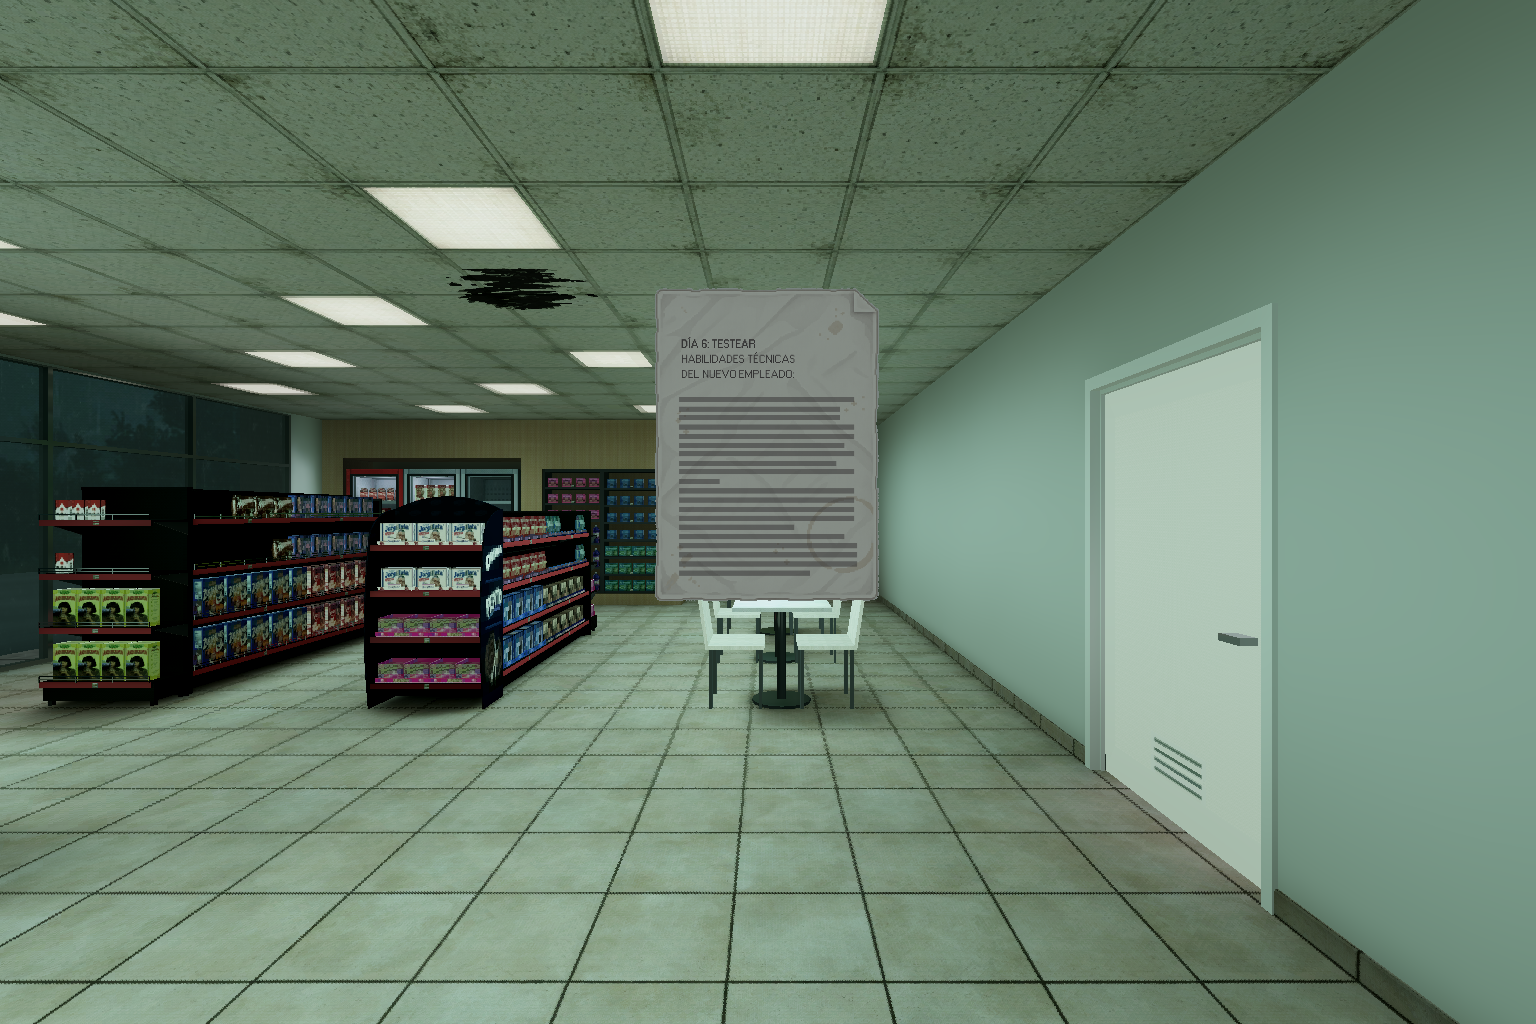
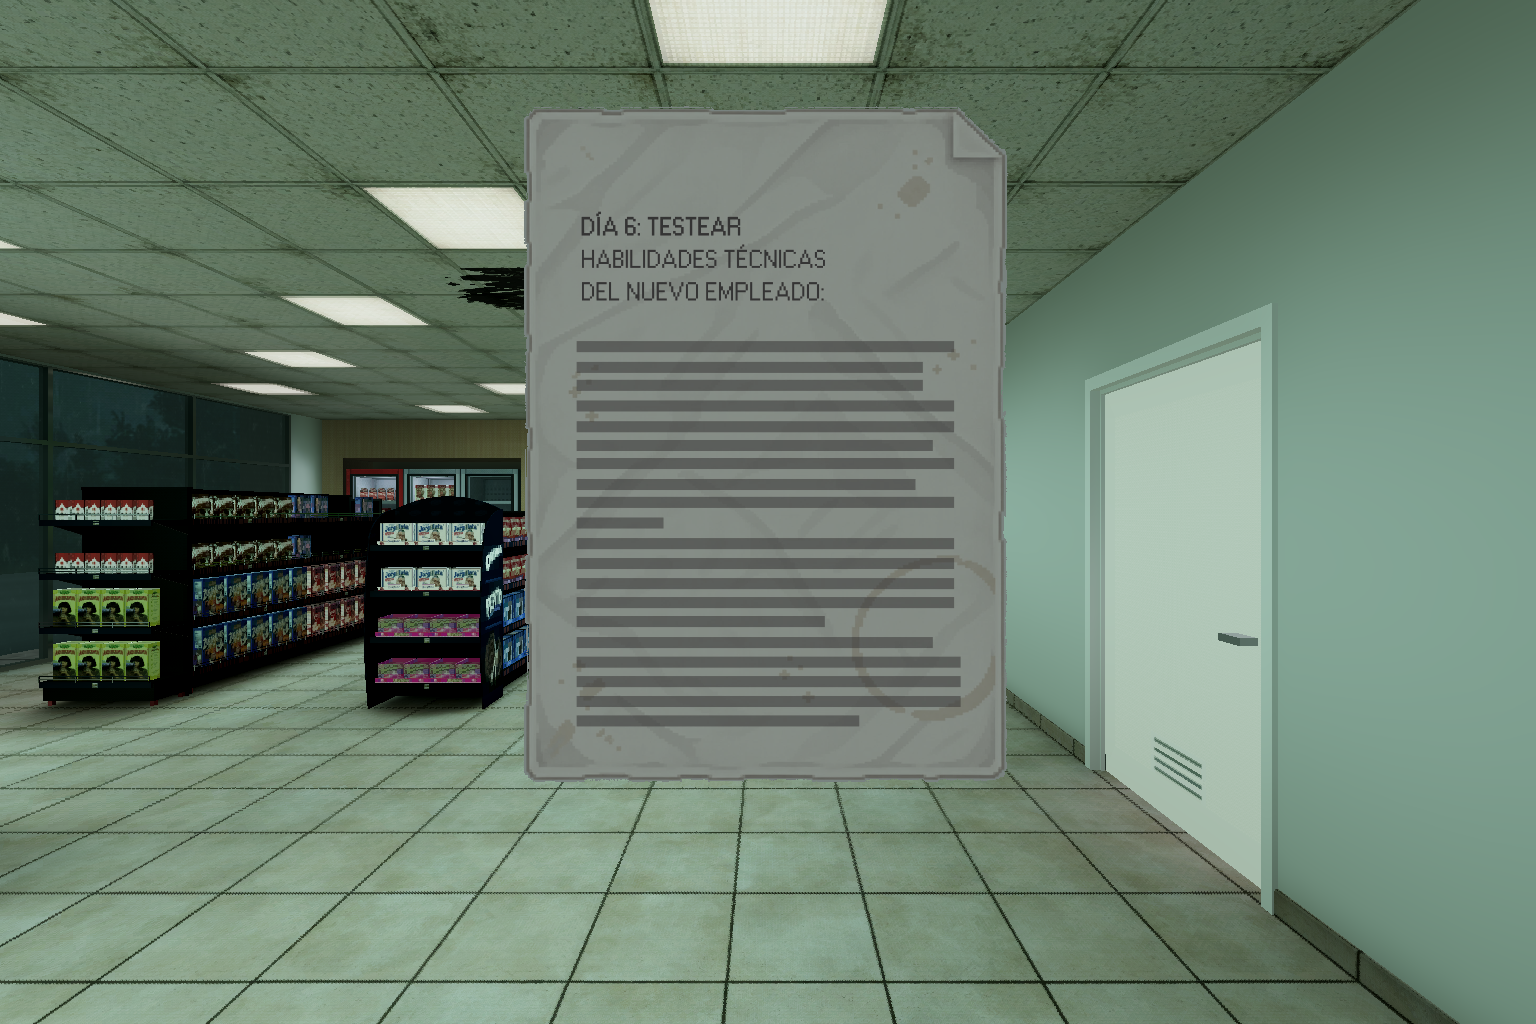
Los papeles de pista se examinan más grandes y la nota usa la textura de Figma (#885)
El objeto declara `escala_de_examen` y `Examen` lo agranda al examinarlo y lo devuelve
a su tamaño al terminar. La nota 6C pasa a la textura frontal de Figma (nodo 1865:867),
con su dorso en blanco, y su malla toma la proporción de esa textura. Las fotos de las
pistas 6B y 6C se vuelven a capturar.

diff --git a/assets/props/nota/generar_nota.py b/assets/props/nota/generar_nota.py
@@ -1,73 +1,36 @@
-"""Regenera la textura de la nota de Yasmín: su texto, a mano, sobre el papel sin texto.
+"""Regenera las texturas de la nota de la pista 6C desde la exportación de Figma.
 
-Uso: python generar_nota.py [--fuente RUTA]. El resultado es determinista para una misma fuente.
+Uso: python generar_nota.py --entrada RUTA_DE_LA_EXPORTACION. La exportación es el nodo
+1865:867 de «Manada - UI», tal como la entrega Figma. Su fondo es un color liso que no es parte
+del papel: los píxeles de ese color unidos al borde pasan a transparentes, y el papel no cambia.
+El dorso es el mismo contorno en blanco. El resultado es determinista.
 """
 import argparse
-import random
 from pathlib import Path
 
-from PIL import Image, ImageDraw, ImageFont
+from PIL import Image, ImageDraw
 
-AQUI = Path(__file__).resolve().parent
-BASE = AQUI.parent.parent / "models" / "SEPT_JUEGOS_PROTOTIPO_nota sin texto.png"
-SALIDA = AQUI.parent.parent / "ui" / "manada" / "pistas" / "nota-bajo-la-puerta.png"
-FUENTE = Path("C:/Windows/Fonts/Inkfree.ttf")
-SEMILLA = 741
-TINTA = (28, 36, 92)
-MARGEN = 64
-TAMANO = 56
-INTERLINEADO = 70
-
-PARRAFOS = [
-    "Hola, Enrique.",
-    "",
-    "Te dejo esto por escrito porque no me estás contestando los mensajes. "
-    "En serio, hace falta revisar si hay un cable pelado en el local o algo, "
-    "porque se sigue cortando la luz. Por favor, respondé.",
-    "",
-    "Saludos,",
-    "Yasmín.",
-]
+SALIDA = Path(__file__).resolve().parent.parent.parent / "ui" / "manada" / "pistas"
+FONDO = (199, 210, 217, 255)
+PAPEL_DEL_DORSO = (234, 229, 221, 255)
 
 
-def renglones(fuente: ImageFont.FreeTypeFont, ancho: int) -> list[str]:
-    salida: list[str] = []
-    for parrafo in PARRAFOS:
-        actual = ""
-        for palabra in parrafo.split():
-            prueba = f"{actual} {palabra}".strip()
-            if fuente.getlength(prueba) <= ancho:
-                actual = prueba
-            else:
-                salida.append(actual)
-                actual = palabra
-        salida.append(actual)
+def recortar(origen: Image.Image) -> Image.Image:
+    papel = origen.convert("RGBA")
+    assert papel.getpixel((0, 0)) == FONDO, "la exportación no trae el fondo esperado"
+    ImageDraw.floodfill(papel, (0, 0), (0, 0, 0, 0), thresh=0)
+    return papel
+
+
+def dorso(papel: Image.Image) -> Image.Image:
+    salida = Image.new("RGBA", papel.size, (0, 0, 0, 0))
+    salida.paste(PAPEL_DEL_DORSO, mask=papel.getchannel("A").point(lambda a: 255 if a else 0))
     return salida
-
-
-def generar(fuente_ruta: Path, destino: Path) -> None:
-    azar = random.Random(SEMILLA)
-    papel = Image.open(BASE).convert("RGBA")
-    ancho, alto = papel.size
-    fuente = ImageFont.truetype(str(fuente_ruta), TAMANO)
-    tinta = Image.new("RGBA", papel.size, (0, 0, 0, 0))
-    y = MARGEN
-    for renglon in renglones(fuente, ancho - 2 * MARGEN):
-        x = MARGEN + azar.randint(-6, 10)
-        for palabra in renglon.split():
-            ancho_de_palabra = int(fuente.getlength(palabra)) + 24
-            hoja = Image.new("RGBA", (ancho_de_palabra, TAMANO * 2), (0, 0, 0, 0))
-            ImageDraw.Draw(hoja).text((8, TAMANO // 2), palabra, font=fuente, fill=TINTA + (235,))
-            hoja = hoja.rotate(azar.uniform(-2.2, 2.2), resample=Image.BICUBIC, expand=False)
-            tinta.alpha_composite(hoja, (x - 8, y - TAMANO // 2 + azar.randint(-4, 4)))
-            x += int(fuente.getlength(palabra + " "))
-        y += INTERLINEADO
-    assert y < alto - MARGEN, "el texto no entra en el papel"
-    destino.parent.mkdir(parents=True, exist_ok=True)
-    Image.alpha_composite(papel, tinta).convert("RGB").save(destino, optimize=True)
 
 
 if __name__ == "__main__":
     analizador = argparse.ArgumentParser()
-    analizador.add_argument("--fuente", type=Path, default=FUENTE)
-    generar(analizador.parse_args().fuente, SALIDA)
+    analizador.add_argument("--entrada", type=Path, required=True)
+    recortado = recortar(Image.open(analizador.parse_args().entrada))
+    recortado.save(SALIDA / "nota-bajo-la-puerta.png", optimize=True)
+    dorso(recortado).save(SALIDA / "nota-dorso.png", optimize=True)

diff --git a/assets/ui/manada/pistas/procedencia.md b/assets/ui/manada/pistas/procedencia.md
@@ -27,12 +27,13 @@ Si la tarjeta de pista recorta la imagen, el recorte se hace en la tarjeta y no 
 
 ## La nota de Yasmín (pista 6C)
 
-`nota-bajo-la-puerta.png` es la textura de la nota: el texto de la ficha de la pista 6C, con
-letra manuscrita, sobre `assets/models/SEPT_JUEGOS_PROTOTIPO_nota sin texto.png`, el papel del
-artista. Por decisión del usuario del 3 de noviembre de 2026, la hace el implementador y no un
-issue de arte aparte. La genera `assets/props/nota/generar_nota.py` con la fuente Ink Free de
-Windows y un azar fijo. El texto es el de la nota de la ficha, con «Yasmín» donde la ficha dice
-«Jazmín».
+`nota-bajo-la-puerta.png` es la textura frontal de la nota: el nodo `1865:867` de «Manada - UI» en
+Figma («Textura frontal de la pista 6C», 1342 × 986). La exportación trae un fondo liso que no es
+del papel; `assets/props/nota/generar_nota.py` pasa a transparente ese fondo y deja el papel como
+está. Se tomó de la captura que entrega Figma (1342 × 987), de SHA-256
[1 lines of base64/hex data omitted]
+contorno en blanco, de la misma generación. El texto es el de la ficha, con «Yasmín» donde la
+ficha dice «Jazmín».
 
 `nota-examinada.png` es la foto de la pista: una captura de la nota examinada, con la mano y la
 cámara reales del jugador, en la jornada 6 con la 5B elegida. La genera `capturar_nota.gd`, con
